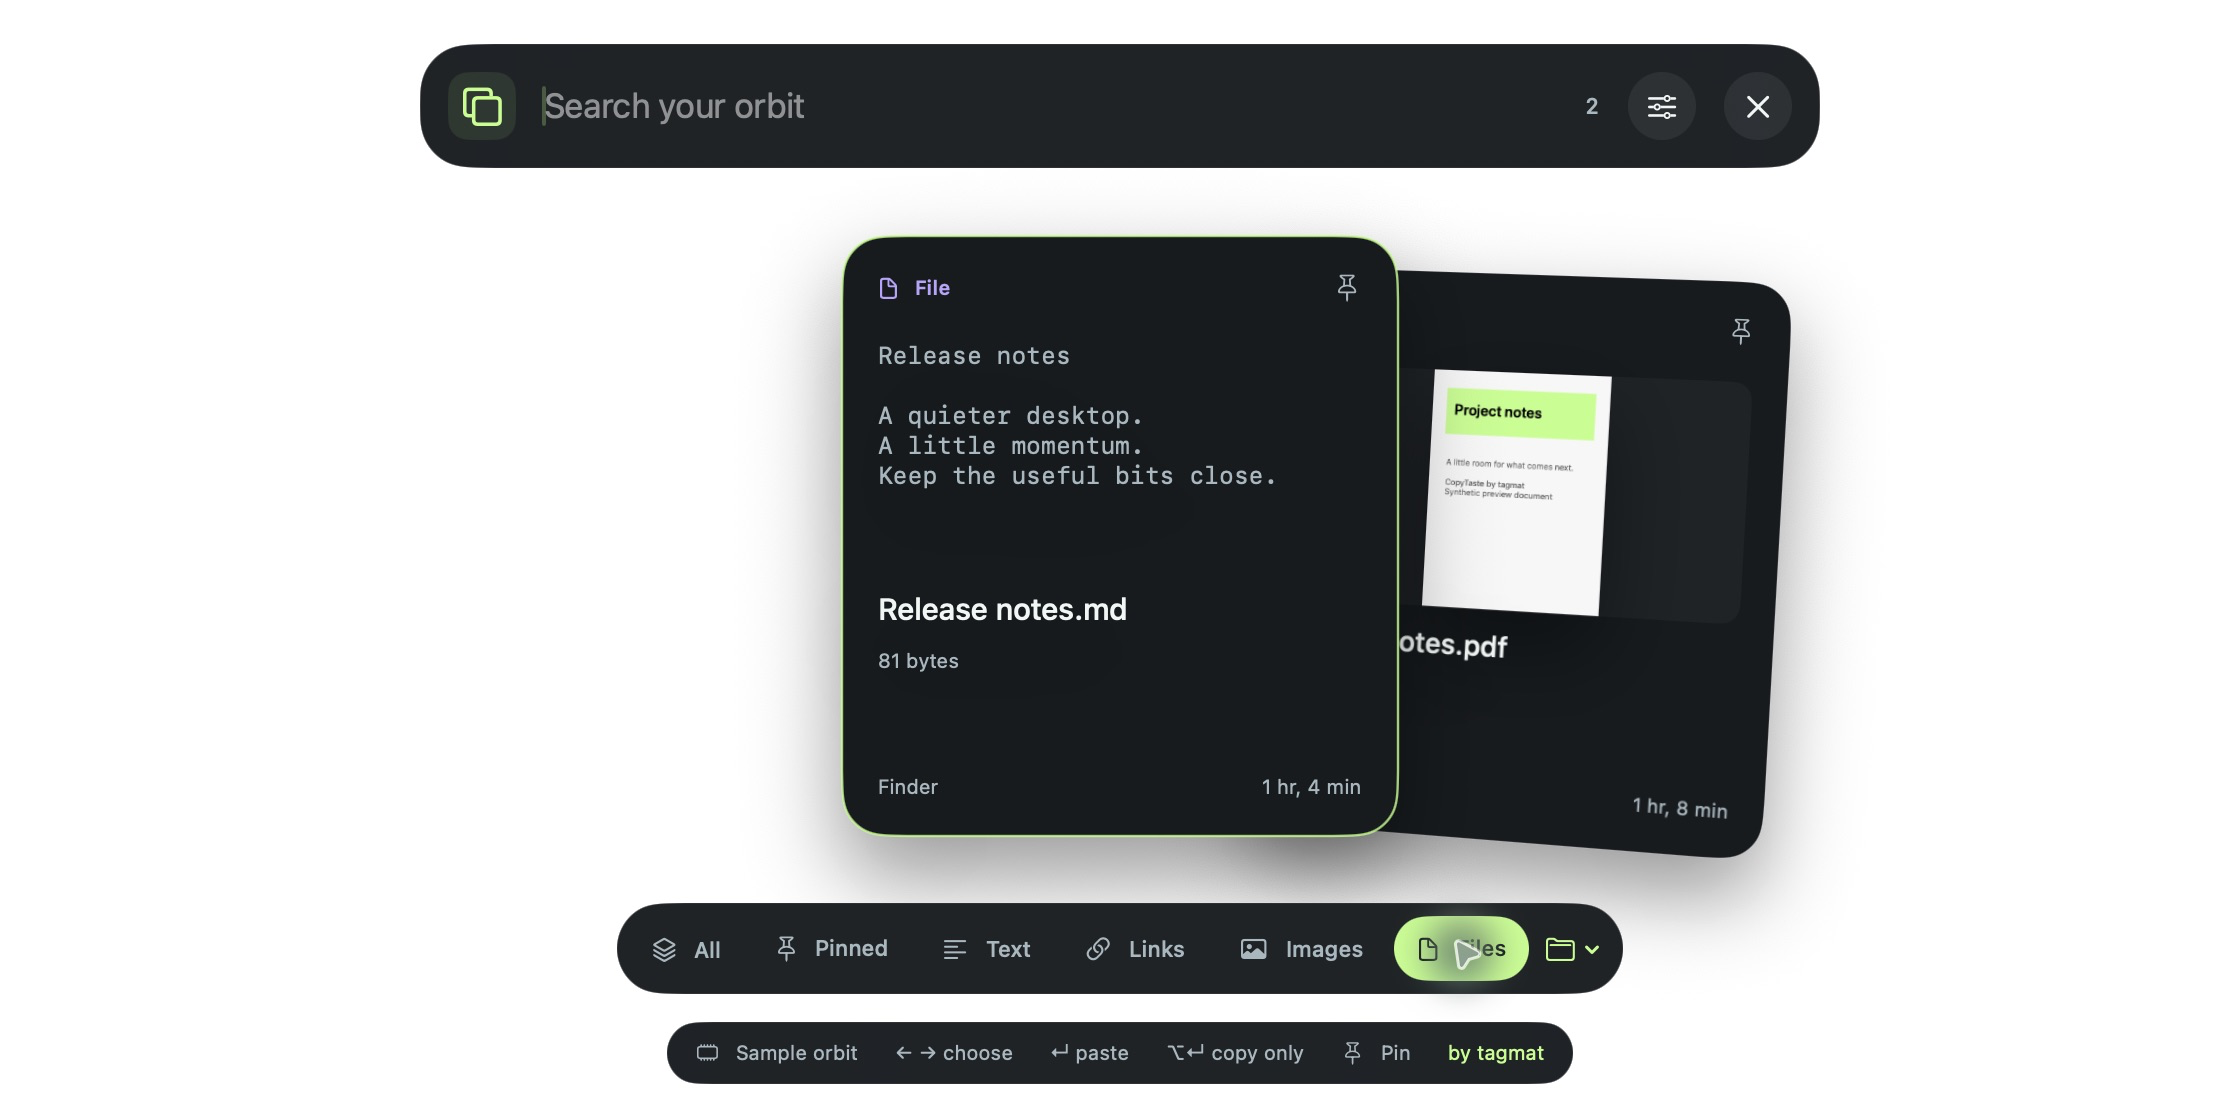
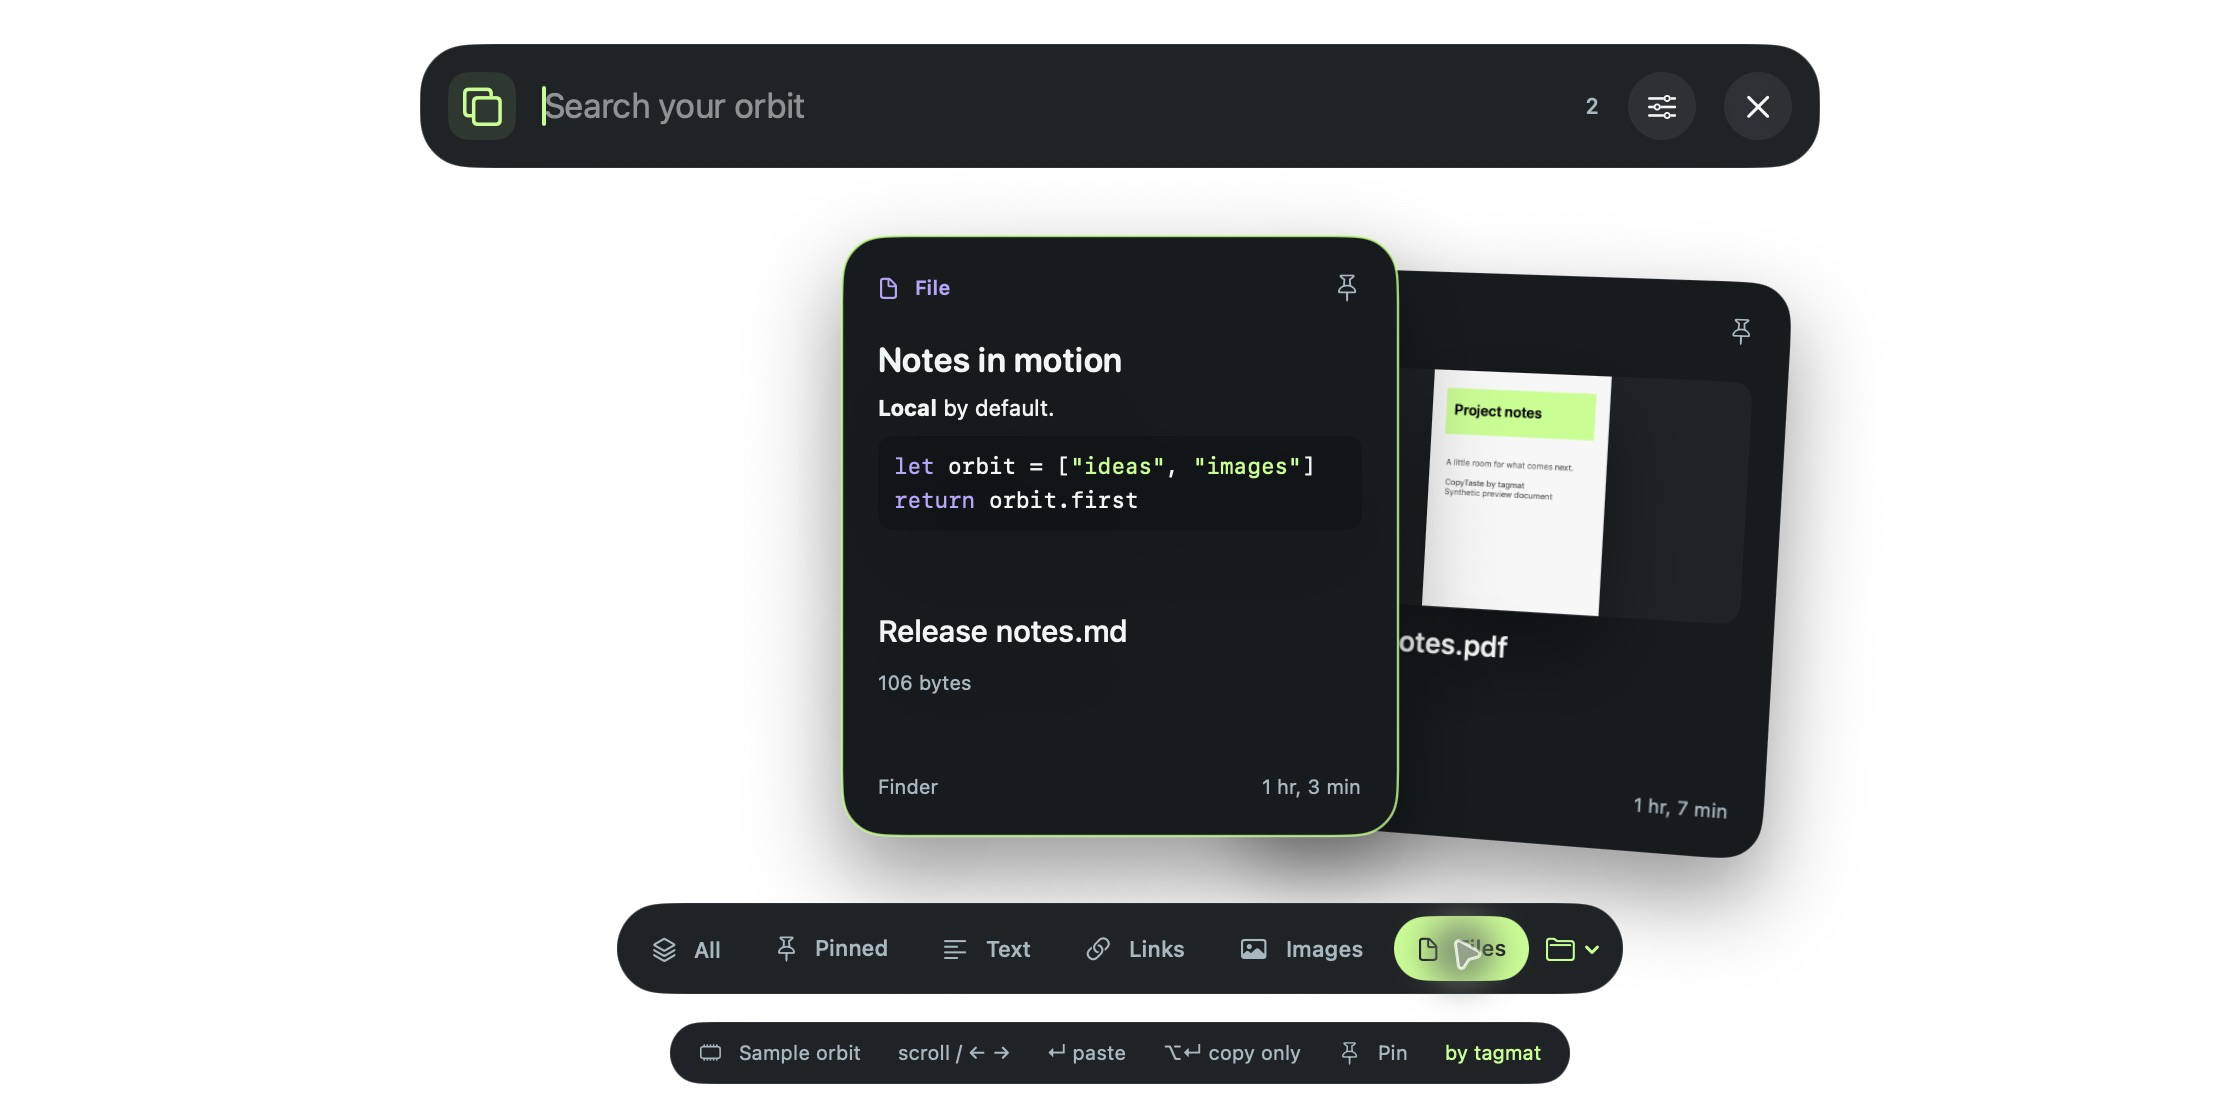
fix: improve contrast in the split selector

diff --git a/Sources/CopyTaste/QuickPicker.swift b/Sources/CopyTaste/QuickPicker.swift
@@ -206,8 +206,11 @@ struct QuickPicker: View {
                         HStack(spacing: 14) {
                             pinnedStack.frame(width: 222)
                             VStack(spacing: 0) {
-                                Text("Recent · newest first").font(.system(size: 10, weight: .medium)).foregroundStyle(Palette.secondary)
-                                fan(recent, width: geometry.size.width - 236).clipped()
+                                Text("Recent · newest first")
+                                    .font(.system(size: 10, weight: .medium)).foregroundStyle(Palette.secondary)
+                                    .padding(.horizontal, 10).padding(.vertical, 5)
+                                    .modifier(FrostedSurface(radius: 10)).padding(.top, 6)
+                                fan(recent, width: geometry.size.width - 260, insideSplit: true)
                             }
                         }.padding(.horizontal, 12)
                     } else { fan(entries, width: geometry.size.width) }
@@ -232,11 +235,13 @@ struct QuickPicker: View {
             .animation(reduceMotion ? nil : .spring(response: 0.46, dampingFraction: 0.82), value: selection)
     }
 
-    private func fan(_ values: [ClipEntry], width: CGFloat) -> some View {
+    private func fan(_ values: [ClipEntry], width: CGFloat, insideSplit: Bool = false) -> some View {
         let index = values.firstIndex { $0.id == selected?.id } ?? 0
+        // Leave room for the outer cards and their shadows within the recent column.
+        let spread = insideSplit ? max(0, (width - 350) / 6) : min(196, (width - 310) / 3.7)
         return ZStack {
             ForEach(PickerLayout.slots(count: values.count, selection: index), id: \.index) { slot in
-                card(values[slot.index], delta: Double(slot.offset), width: width)
+                card(values[slot.index], delta: Double(slot.offset), spread: spread)
             }
         }.frame(maxWidth: .infinity, maxHeight: .infinity)
     }
@@ -248,6 +253,7 @@ struct QuickPicker: View {
             HStack(spacing: 6) {
                 Image(systemName: "pin.fill"); Text("Pinned"); Text("\(pinned.count)").foregroundStyle(Palette.secondary)
             }.font(.system(size: 11, weight: .medium)).foregroundStyle(Palette.mint)
+                .padding(.horizontal, 10).padding(.vertical, 5).modifier(FrostedSurface(radius: 10))
             ZStack {
                 ForEach(Array(values.enumerated()), id: \.element.id) { index, entry in
                     FlightCard(entry: entry, selected: entry.id == selected?.id,
@@ -258,7 +264,10 @@ struct QuickPicker: View {
                         .zIndex(Double(3 - index))
                 }
             }.frame(width: 210, height: 244)
-            Button("Show all pins") { filter = .pinned }.buttonStyle(.plain).font(.system(size: 10)).foregroundStyle(Palette.secondary)
+            Button { filter = .pinned } label: {
+                Text("Show all pins").font(.system(size: 10)).foregroundStyle(Palette.secondary)
+                    .padding(.horizontal, 10).padding(.vertical, 5).modifier(FrostedSurface(radius: 10))
+            }.buttonStyle(.plain)
         }.opacity(isOpen ? 1 : 0).offset(x: isOpen || reduceMotion ? 0 : -100)
             .animation(reduceMotion ? nil : .spring(response: 0.5, dampingFraction: 0.82), value: isOpen)
     }
@@ -289,10 +298,9 @@ struct QuickPicker: View {
             .animation(reduceMotion ? nil : .spring(response: 0.4, dampingFraction: 0.8), value: isOpen)
     }
 
-    private func card(_ entry: ClipEntry, delta: Double, width: CGFloat) -> some View {
+    private func card(_ entry: ClipEntry, delta: Double, spread: CGFloat) -> some View {
         let chosen = presentation.chosenID == entry.id
         let departing = presentation.phase == .departing
-        let spread = min(196, (width - 310) / 3.7)
         let x = isOpen || reduceMotion ? delta * spread : (departing ? delta * (spread + 45) : delta * 18)
         let y = isOpen || reduceMotion ? abs(delta) * 11 : (departing ? (chosen ? -160.0 : 95.0) : 130.0)
         return FlightCard(entry: entry, selected: entry.id == selected?.id,

diff --git a/DESIGN.md b/DESIGN.md
@@ -71,7 +71,7 @@ Use native system and rounded faces. Ordinary clipboard text uses the clip style
 
 All dimensions are macOS points. The transparent, nonactivating selector is 560 high and at most 1120 wide, constrained to the pointer's screen width minus 40. It is horizontally centered; its lower edge sits 240 below the visible-screen midpoint. Search has a 700-point maximum width and 22-point top inset. The control strip has an 18-point bottom inset.
 
-The default pinned-left/recent-right layout splits when matching pins and unpinned clips both exist outside the Pinned filter. Its pin area is 222 wide, followed by a 14-point gap and the recent fan, within 12-point horizontal insets. The pin stack shows the active pin and up to two others at 0.72 scale, with a count and Show all pins action. Orbit, pinned-only results and unsplit states use one fan. Each group is newest first; default selection starts at the newest unpinned match when available. Layout can be changed in quick or advanced settings.
+The default pinned-left/recent-right layout splits when matching pins and unpinned clips both exist outside the Pinned filter. Its pin area is 222 wide, followed by a 14-point gap and the recent fan, within 12-point horizontal insets. The pin stack shows the active pin and up to two others at 0.72 scale, with a count and Show all pins action. Split captions and the Show all pins action use dark surfaces for contrast. Recent cards spread by `max(0, (recentWidth - 350) / 6)` per slot so their shadows can extend without a hard crop. Orbit, pinned-only results and unsplit states use one fan. Each group is newest first. Default selection starts at the newest unpinned match when available. Layout can be changed in quick or advanced settings.
 
 Each fan renders up to seven 278 × 300 card slots. Horizontal spread is `min(196, (availableWidth - 310) / 3.7)` per slot; resting vertical offset is 11 points per distance from centre. Cards use 18-point content insets. Search, type, collection and layout changes reset selection. Navigation wraps through all matches in the bounded history, with a configured maximum of up to 1000 entries; seven is a rendering limit, not a result cap.
 

diff --git a/docs/VALIDATION.md b/docs/VALIDATION.md
@@ -12,7 +12,7 @@ Release builds succeeded for arm64 and x86_64. The clean distribution ZIP is bui
 
 A separately identified preview app used synthetic clips and an isolated pasteboard, with global-hot-key registration disabled. It did not restart or clear the user's live CopyTaste memory session. The selector, menu-bar settings bubble, image/PDF/text previews and file filter were inspected. The final visual pass confirmed readable dark control capsules, opaque spatial cards, mint selection, real PDF thumbnails and text-file excerpts. All source findings from the bounded review were corrected: clearing outgoing transfers/cache, filename search and distinguishable VoiceOver card labels.
 
-The subsequent Markdown/code and split-layout additions passed source review and the automated regressions above. A locked Mac prevented refreshing their final interactive captures; wheel/trackpad behaviour and final colour/layout rendering still need an unlocked-session check. README media illustrates the previously captured single-orbit, file and bubble surfaces with synthetic samples. PNG exports were checked for text/EXIF/time chunks; the GIF is assembled from new pixel frames without source metadata.
+In the unlocked sample session, a scroll event moved selection from a link to the next image. Show all pins revealed the two sample pins. Switching to Single orbit removed the split, and the Files filter showed formatted Markdown, coloured Swift tokens and a PDF thumbnail. The final build puts the split captions on dark surfaces and leaves room for card shadows. README screenshots show these final sample surfaces. PNG exports were checked for text, EXIF and time chunks. The GIF was assembled from reencoded pixel frames.
 
 ## Not certified
 

diff --git a/README.md b/README.md
@@ -6,7 +6,7 @@ History stays in RAM by default. Capture starts only after you enable it. The me
 
 ![CopyTaste floating selector with synthetic sample clips](docs/media/selector.png)
 
-*The optional single-orbit layout. All screenshots use fictional sample clips in an isolated preview session.*
+*The default layout keeps pins on the left and recent clips on the right. All screenshots use fictional sample clips in an isolated preview session.*
 
 | Keep close | Move quickly | Choose what stays |
 | --- | --- | --- |
@@ -16,7 +16,7 @@ History stays in RAM by default. Capture starts only after you enable it. The me
 
 ![Synthetic interface tour of CopyTaste](docs/media/interface-tour.gif)
 
-*A looping tour assembled from application screenshots, not a recording of the card animations. Media contains sample data only and is reencoded without source metadata.*
+*A looping sequence of application screenshots. Each frame uses sample data and is reencoded without source metadata.*
 
 ## Run
 
@@ -54,7 +54,7 @@ Cards fan out with staggered springs, respond to pointer movement, move through 
 
 ![Menu-bar quick settings using sample data](docs/media/quick-settings.png)
 
-![File cards with a local PDF thumbnail](docs/media/files.png)
+![File cards showing formatted Markdown, syntax-coloured Swift and a local PDF thumbnail](docs/media/files.png)
 
 </details>
 
